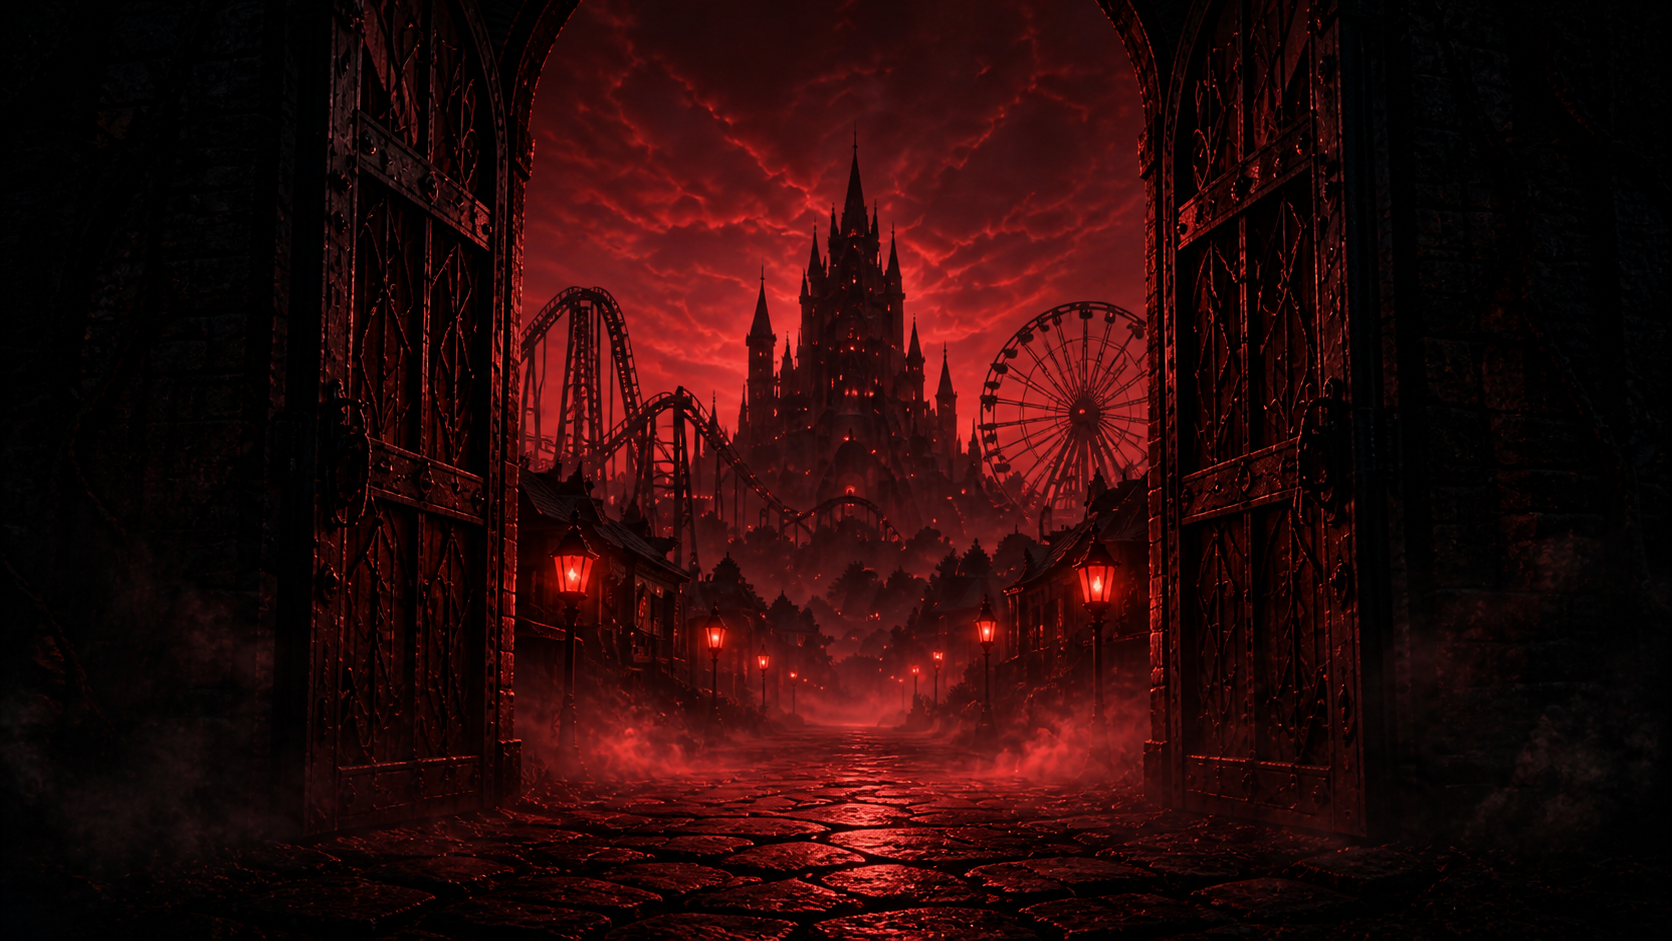
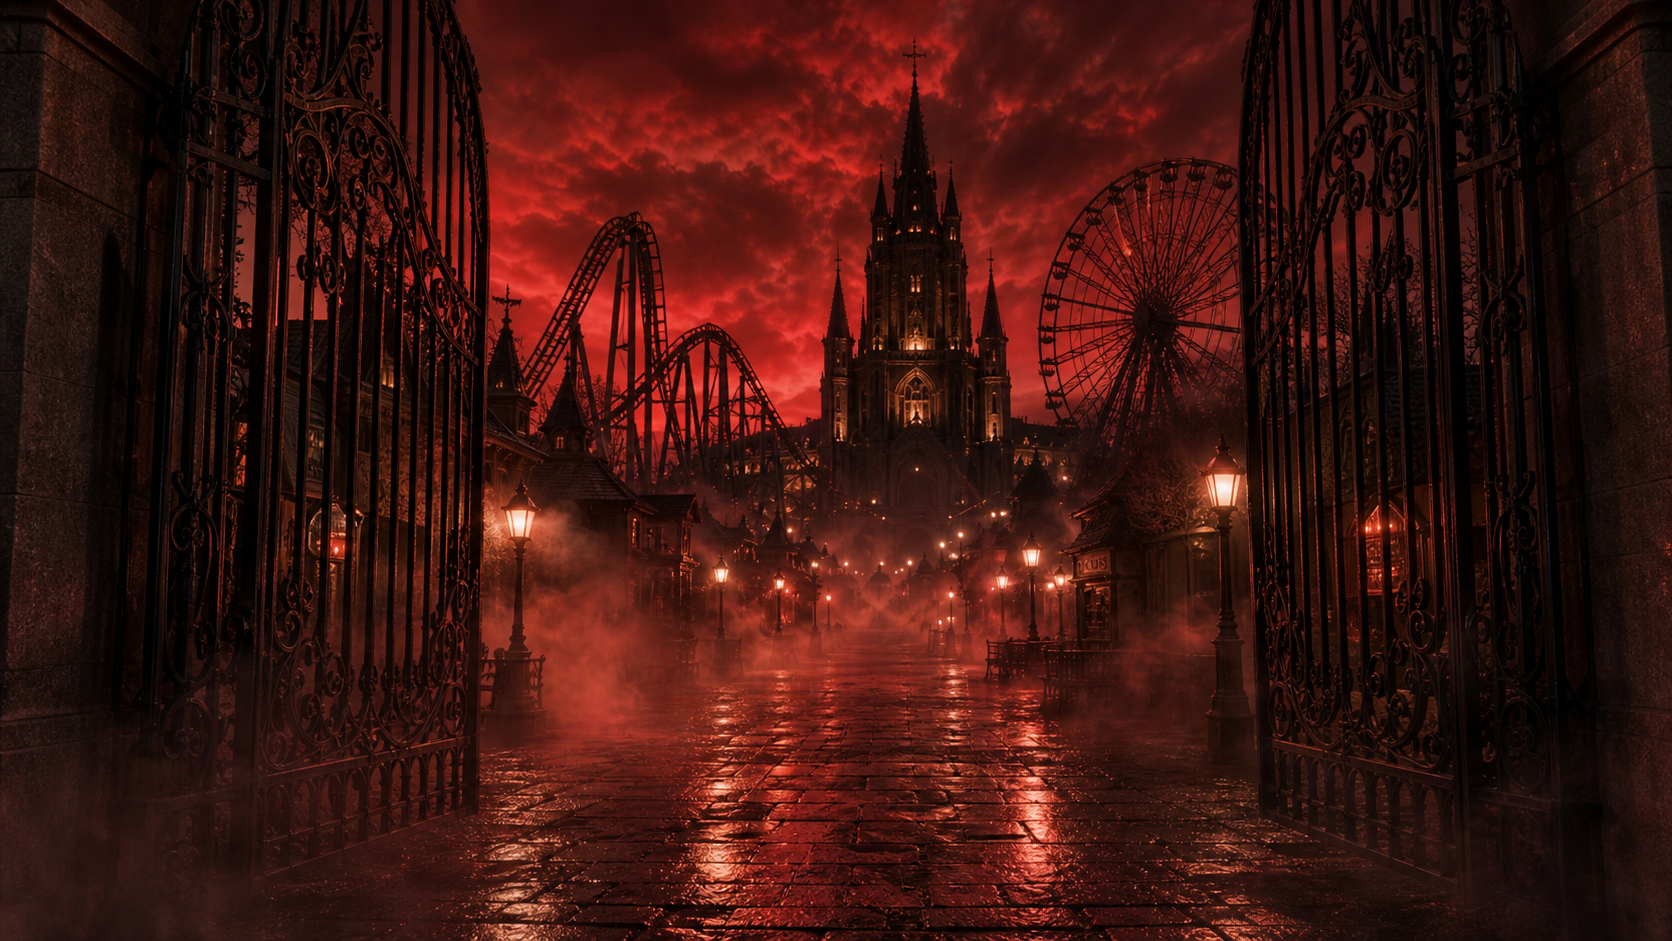
style: refine public home hero

diff --git a/src/pages/HomePage.jsx b/src/pages/HomePage.jsx
@@ -11,32 +11,32 @@ import parkMapImage from '../assets/home/publicHomeParkMap.png'
 function HomePage() {
   return (
     <main className="min-h-screen overflow-x-hidden bg-black text-neutral-100">
-      <section className="relative isolate min-h-[calc(100svh-5rem)] overflow-hidden border-b border-white/10 px-4 py-8 sm:px-8 md:px-10 lg:px-12 lg:py-6">
+      <section className="relative isolate min-h-[calc(100svh-5rem)] overflow-hidden border-b border-white/10 bg-[radial-gradient(circle_at_58%_42%,#220606_0%,#050505_48%,#000_100%)] px-4 py-7 sm:px-6 md:px-8 lg:min-h-[620px] lg:px-6 lg:py-4 xl:px-8">
         <img
           src={heroImage}
           alt=""
-          className="absolute inset-0 -z-20 h-full w-full object-cover object-[center_38%] opacity-80 grayscale brightness-90 contrast-125 mix-blend-luminosity"
+          className="absolute inset-0 -z-20 h-full w-full object-cover object-center opacity-100 brightness-100 contrast-100 lg:object-contain"
           aria-hidden="true"
         />
-        <div className="absolute inset-0 -z-10 bg-[radial-gradient(circle_at_56%_36%,rgba(185,28,28,0.56),transparent_18rem),radial-gradient(circle_at_68%_56%,rgba(127,29,29,0.28),transparent_24rem),linear-gradient(90deg,rgba(0,0,0,0.96)_0%,rgba(0,0,0,0.72)_34%,rgba(0,0,0,0.22)_62%,rgba(0,0,0,0.9)_100%)]" />
+        <div className="absolute inset-0 -z-10 bg-[linear-gradient(90deg,rgba(0,0,0,0.86)_0%,rgba(0,0,0,0.52)_28%,rgba(0,0,0,0.08)_50%,rgba(0,0,0,0.28)_78%,rgba(0,0,0,0.52)_100%),linear-gradient(180deg,rgba(0,0,0,0.04)_0%,rgba(0,0,0,0)_55%,rgba(0,0,0,0.65)_100%)]" />
 
-        <div className="mx-auto grid min-h-[calc(100svh-7rem)] max-w-7xl items-center gap-8 py-4 sm:py-6 lg:grid-cols-[minmax(0,1fr)_280px] lg:py-0 xl:grid-cols-[minmax(0,1fr)_320px]">
-          <div className="max-w-3xl pt-0 lg:-mt-4">
-            <span className="inline-flex items-center gap-2 rounded-md border border-white/15 bg-black/55 px-4 py-2 text-sm font-semibold text-neutral-200 shadow-xl shadow-black/30 backdrop-blur">
+        <div className="mr-auto ml-0 grid min-h-[calc(100svh-6.5rem)] w-full max-w-[1180px] items-center gap-7 py-3 sm:py-5 lg:min-h-[590px] lg:grid-cols-[minmax(0,1fr)_230px] lg:py-0 xl:grid-cols-[minmax(0,1fr)_250px]">
+          <div className="max-w-[42rem] pt-0 lg:-mt-1">
+            <span className="inline-flex items-center gap-2 rounded-md border border-white/20 bg-black/40 px-3.5 py-2 text-sm font-semibold text-neutral-100 backdrop-blur">
               Granada · Parque de terror
             </span>
 
-            <p className="mt-5 text-sm font-extrabold uppercase tracking-[0.28em] text-red-500">
+            <p className="mt-4 text-xs font-extrabold uppercase tracking-[0.28em] text-red-500 sm:text-sm">
               La Última Puerta
             </p>
-            <h1 className="mt-3 max-w-4xl text-5xl leading-[0.92] font-black tracking-normal text-white uppercase drop-shadow-[0_12px_28px_rgba(0,0,0,0.85)] sm:text-6xl lg:text-7xl xl:text-8xl">
+            <h1 className="mt-3 max-w-[36rem] text-4xl leading-[1] font-black tracking-normal text-white uppercase sm:text-5xl lg:text-[3rem] xl:text-[3.25rem]">
               Cruza la puerta
               <span className="block text-red-600">si te atreves</span>
             </h1>
-            <p className="mt-4 max-w-2xl text-xl font-semibold text-neutral-100">
+            <p className="mt-3 max-w-xl text-base font-semibold text-neutral-100 sm:text-lg">
               ¿Te atreves a cruzarla?
             </p>
-            <p className="mt-3 max-w-xl text-base leading-7 text-neutral-200/85 sm:text-lg">
+            <p className="mt-3 max-w-md text-base leading-7 text-neutral-200/85 sm:max-w-lg">
               El parque de atracciones de terror más intenso te espera en
               Granada con experiencias nocturnas, sustos memorables y una
               entrada que no todos se atreven a atravesar.
@@ -45,31 +45,31 @@ function HomePage() {
             <div className="mt-6 flex flex-wrap items-center gap-3 sm:gap-4">
               <button
                 type="button"
-                className="min-h-12 w-full rounded-lg border border-red-500 bg-red-700 px-7 py-3 text-sm font-extrabold tracking-wide text-white uppercase shadow-[0_0_32px_rgba(220,38,38,0.38)] transition hover:bg-red-600 focus-visible:outline-2 focus-visible:outline-offset-2 focus-visible:outline-red-400 sm:w-auto"
+                className="min-h-12 w-full rounded-lg border border-red-500 bg-red-700 px-6 py-3 text-sm font-extrabold tracking-wide text-white uppercase transition hover:bg-red-600 focus-visible:outline-2 focus-visible:outline-offset-2 focus-visible:outline-red-400 sm:w-auto"
               >
                 Comprar entradas
               </button>
               <button
                 type="button"
-                className="min-h-12 w-full rounded-lg border border-white/25 bg-black/45 px-7 py-3 text-sm font-extrabold tracking-wide text-white uppercase backdrop-blur transition hover:border-red-500 hover:text-red-200 focus-visible:outline-2 focus-visible:outline-offset-2 focus-visible:outline-red-400 sm:w-auto"
+                className="min-h-12 w-full rounded-lg border border-white/25 bg-black/40 px-6 py-3 text-sm font-extrabold tracking-wide text-white uppercase backdrop-blur transition hover:border-red-500 hover:text-red-200 focus-visible:outline-2 focus-visible:outline-offset-2 focus-visible:outline-red-400 sm:w-auto"
               >
                 Ver atracciones
               </button>
             </div>
           </div>
 
-          <aside className="w-full max-w-[300px] justify-self-center rounded-2xl border border-white/15 bg-neutral-950/80 p-5 shadow-2xl shadow-black/50 backdrop-blur-md lg:-mt-4 lg:justify-self-end">
+          <aside className="w-full max-w-[232px] justify-self-center rounded-2xl border border-white/20 bg-neutral-950/52 p-3.5 backdrop-blur-sm lg:-mt-1 lg:justify-self-end">
             <div className="text-center">
-              <p className="text-lg font-extrabold text-white">
+              <p className="text-base font-extrabold text-white">
                 Tu experiencia empieza aquí
               </p>
-              <p className="mt-2 text-sm leading-6 text-neutral-300">
+              <p className="mt-2 text-sm leading-5 text-neutral-300">
                 Acceso visual a la experiencia mobile para preparar el recorrido
                 dentro del parque.
               </p>
             </div>
 
-            <div className="mx-auto mt-4 grid h-28 w-28 grid-cols-5 gap-1 rounded-xl border border-white/20 bg-white p-3 shadow-inner">
+            <div className="mx-auto mt-4 grid h-20 w-20 grid-cols-5 gap-1 rounded-xl border border-white/20 bg-white p-2.5">
               <span className="rounded-sm bg-black" />
               <span className="rounded-sm bg-black" />
               <span className="rounded-sm bg-white" />
@@ -97,7 +97,7 @@ function HomePage() {
               <span className="rounded-sm bg-black" />
             </div>
 
-            <p className="mt-4 rounded-lg border border-red-900/70 bg-red-950/30 px-4 py-2.5 text-center text-xs font-semibold uppercase tracking-[0.16em] text-red-200">
+            <p className="mt-4 rounded-lg border border-red-900/70 bg-red-950/30 px-3 py-2 text-center text-xs font-semibold uppercase tracking-[0.14em] text-red-200">
               QR visual · Sin pago real
             </p>
           </aside>